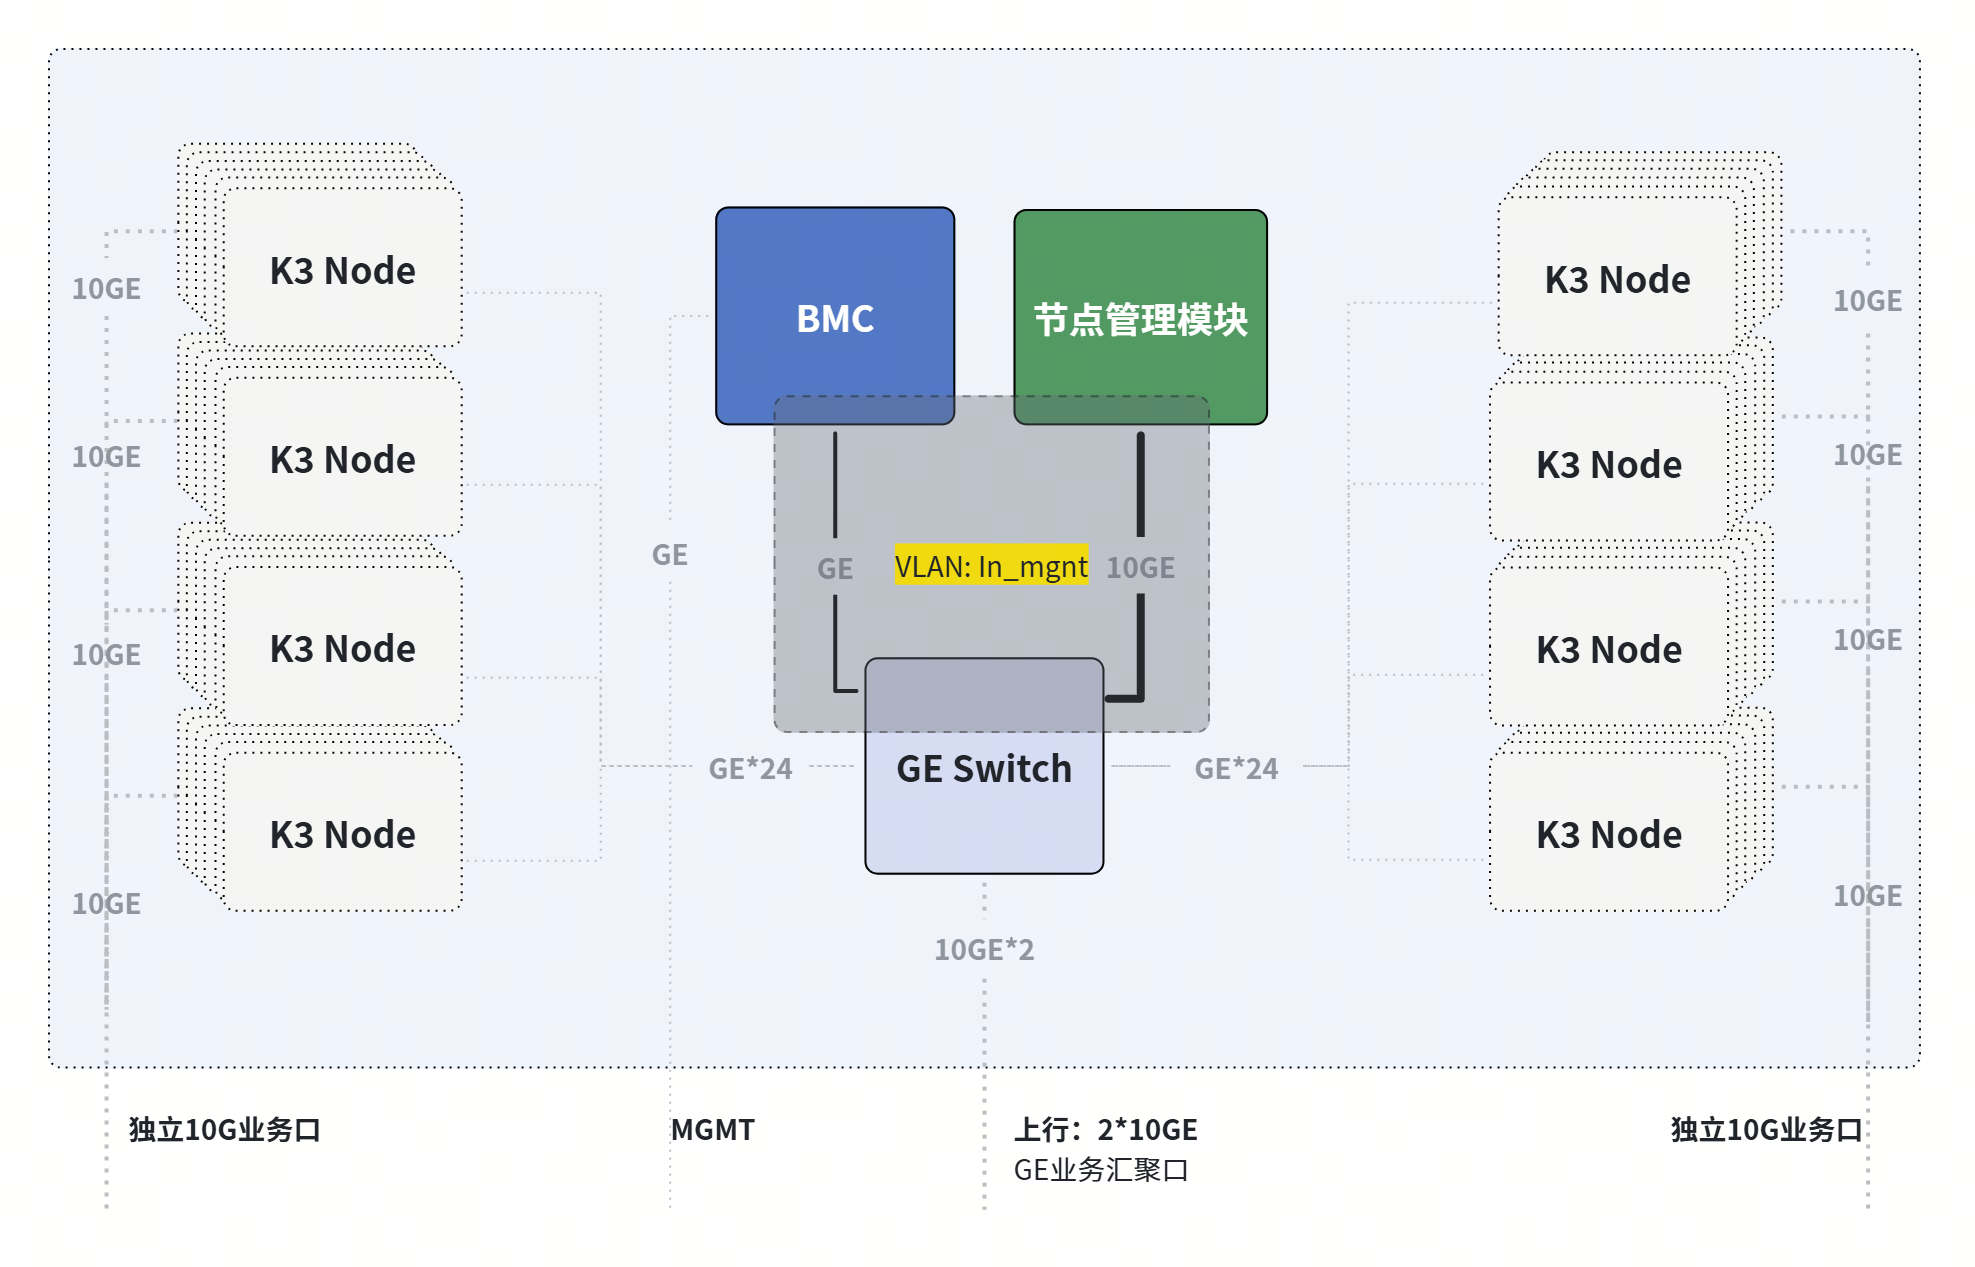
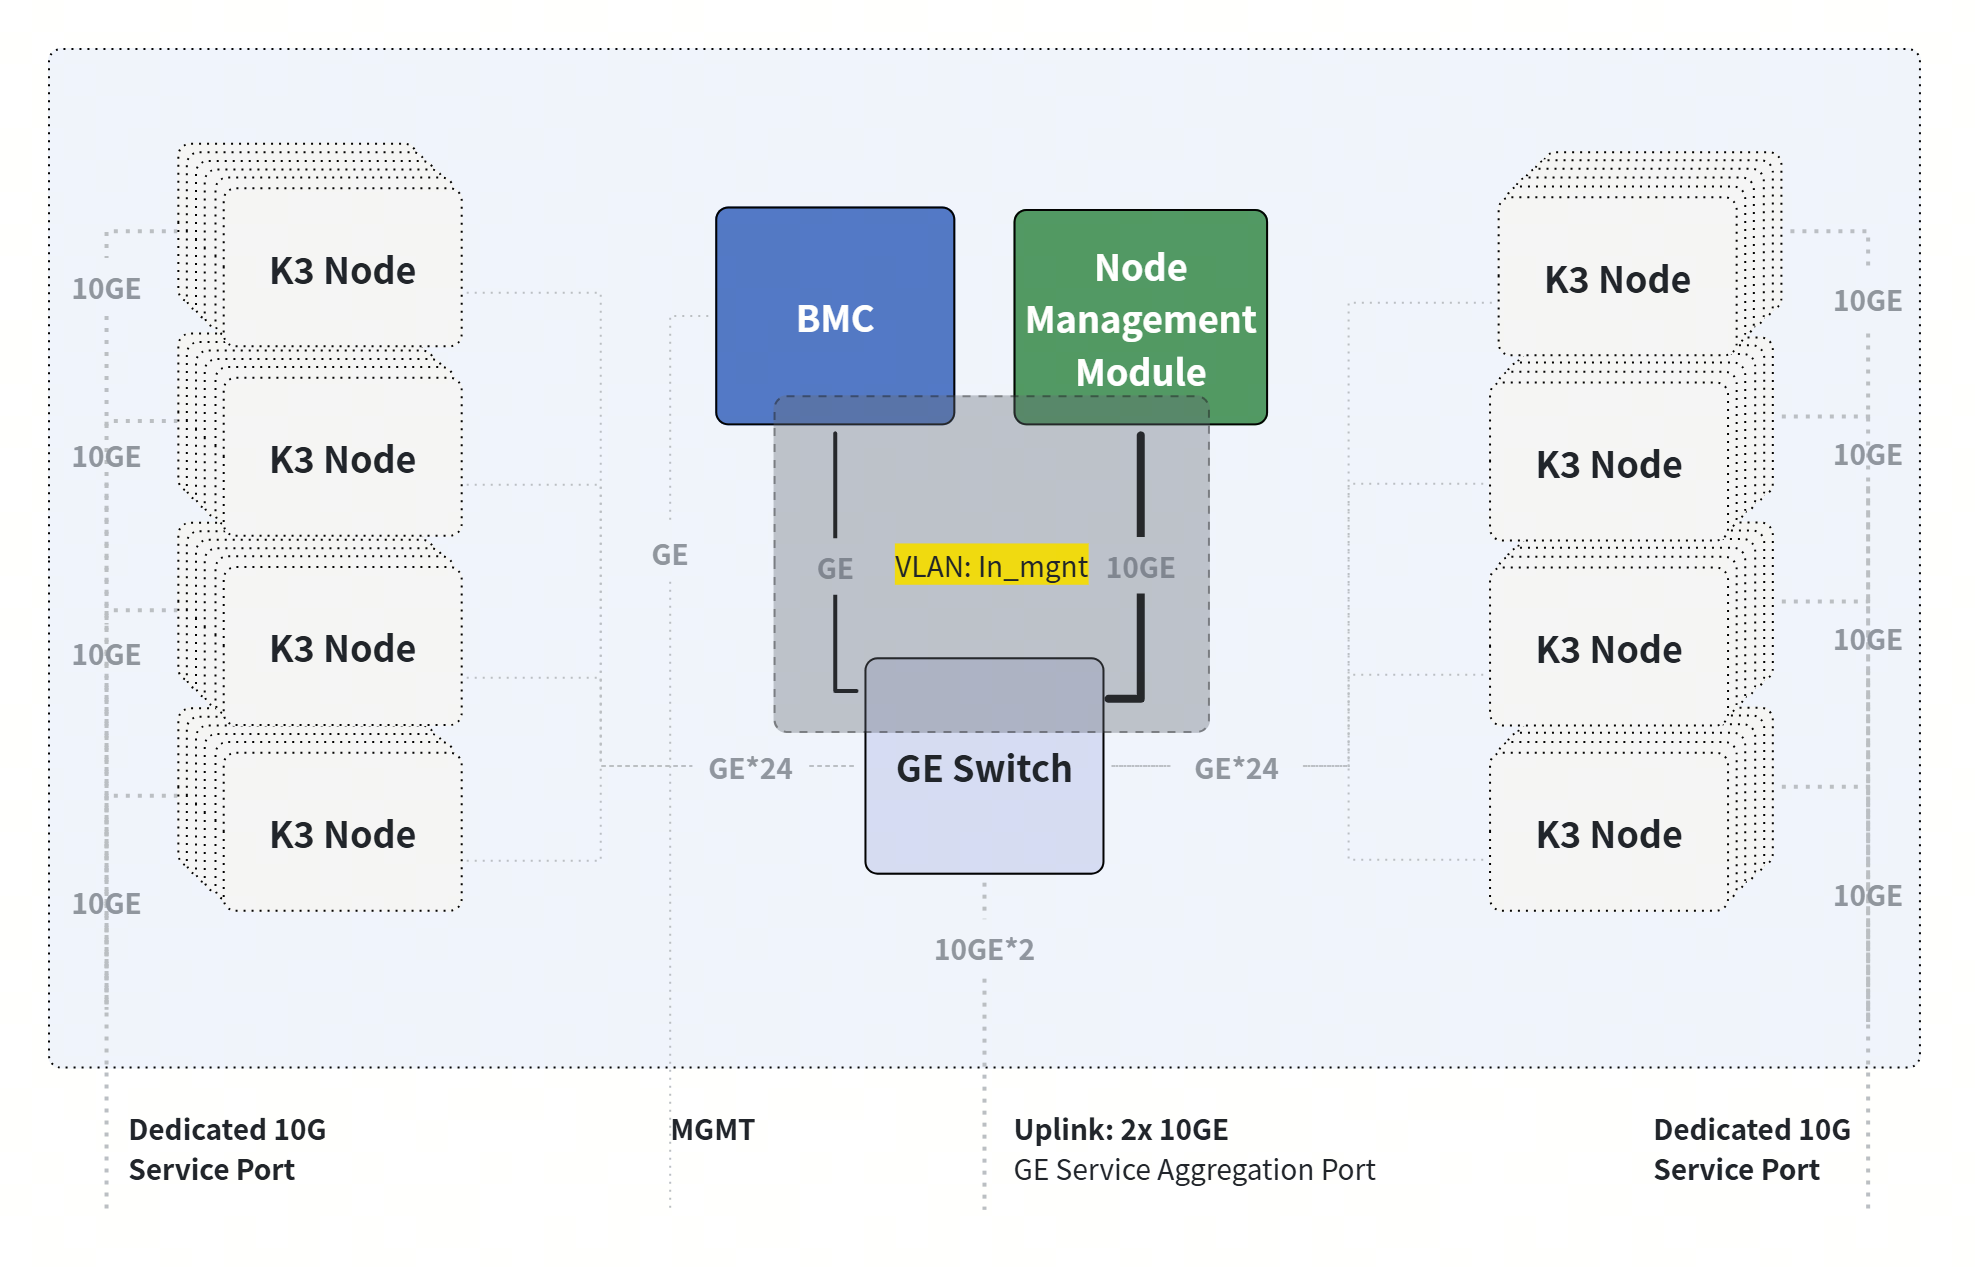
docs: update RV2768 specs and diagrams for both zh and en

diff --git a/zh/k3_rv2768/root_overview.md b/zh/k3_rv2768/root_overview.md
@@ -37,9 +37,9 @@ RVA23针对通用计算领域的应用处理器所制定，要求支持向量（
 | **物理架构** | 物理架构 | 2U 机架式服务器 |
 | | 尺寸 | 87.4 mm × 447.6 mm × 816.8 mm |
 | | 计算模组 | 最多可装载 24 个模组，每一个模组拥有 2 个 K3 计算节点，并可独立维护 |
-| | 计算节点 | 整机最多总计 48 个节点，模组内各节点之间实现高速、低延迟互联 |
+| | 计算节点 | 整机最多总计 48 个节点，各节点之间物理安全隔离，可独立管理维护 |
 | **计算节点** | CPU 计算核 | 每个进迭时空 K3 处理器配备 8 个 X100 核，单核 SPECint2006 > 9.0/GHz，最大主频 2.4 GHz |
-| | 通用 AI 核 | 每个进迭时空 K3 处理器计算节点搭配 8 个 A100 核，提供 60 TOPS 通用 AI 算力 |
+| | 通用 AI 核 | 每个进迭时空 K3 处理器计算节点搭配 8 个 A100 核，提供 60 TOPS @INT4 通用 AI 算力 |
 | | RAM | LPDDR5，8 GB / 16 GB / 32 GB 容量可选，最高 6400 MT/s |
 | | ROM | NVMe SSD，PCIe 3.0 x4，64 GB / 128 GB / 256 GB 容量可选，也可选配 UFS |
 | | 网络 | 1GE 网口接入内部管理网络，10GE 网口支持外部互联 |
@@ -52,10 +52,9 @@ RVA23针对通用计算领域的应用处理器所制定，要求支持向量（
 | **管理系统** | 基板管理 | 支持多节点计算模组单一管理、支持集成交换机管理，前出专用管理 GE 网口，提供全面的故障检测和运维特性 |
 | | 节点管理 | 支持对节点进行硬件电源管理、系统复位、固件配置、串口调试和远程桌面操控 |
 | **软件应用** | 操作系统 | 出厂可选配预装主流 Linux 操作系统 |
-| | 应用服务 | RISC-V 生态云、构建集群应用、AI 集群应用 |
+| | 软件平台 | 集群管理、分布式计算、智能体集群 |
 | **工作条件** | 工作温度 | 5°C～40°C（41°F～104°F），符合 ASHRAE Class A1/A2/A3 |
 | | 工作湿度 | 8%～90% |
-
 
 ## 合作与采购咨询
 

diff --git a/en/k3_rv2768/root_overview.md b/en/k3_rv2768/root_overview.md
@@ -39,9 +39,9 @@ With a multi-node cluster architecture and full hardware virtualization, the ser
 | **Physical** | Form Factor | 2U rackmount |
 | | Dimensions | 87.4 mm × 447.6 mm × 816.8 mm |
 | | Compute Modules | Up to 24 modules, each with 2 K3 nodes, independently serviceable |
-| | Compute Nodes | Up to 48 nodes with high-speed, low-latency interconnect |
+| | Compute Nodes | Up to 48 physically isolated nodes, each independently manageable and maintainable |
 | **Compute Node** | CPU Cores | 8 × X100 cores per K3, SPECint2006 > 9.0/GHz, up to 2.4 GHz |
-| | AI Cores | 8 × A100 cores per node, up to 60 TOPS |
+| | AI Cores | 8 × A100 cores per node, 60 TOPS @INT4 |
 | | RAM | LPDDR5, 8 / 16 / 32 GB options, up to 6400 MT/s |
 | | ROM | NVMe SSD (PCIe 3.0 x4), 64 / 128 / 256 GB, optional UFS |
 | | Networking | 1GE port for internal management network, 10GE port for external connectivity |
@@ -54,7 +54,7 @@ With a multi-node cluster architecture and full hardware virtualization, the ser
 | **Management** | System Management | Unified multi-node module management and integrated switch management, with a dedicated front GE management port for full fault monitoring and operations |
 | | Node Management | Power control, reset, firmware configuration, serial debug, and remote console |
 | **Software** | OS | Optional pre-installed mainstream Linux distributions |
-| | Applications | RISC-V cloud ecosystem, build clusters, and AI cluster workloads |
+| | Software Platform | Cluster management, distributed computing, AI agent clusters |
 | **Operating Conditions** | Temperature | 5°C–40°C (41°F–104°F), ASHRAE A1/A2/A3 compliant |
 | | Humidity | 8%–90% |
 

diff --git a/en/k3_rv2768/rv2768_white_paper.md b/en/k3_rv2768/rv2768_white_paper.md
@@ -307,9 +307,9 @@ Four 6056 fan modules are supported.
 | **Physical** | Form Factor | 2U rackmount |
 | | Dimensions | 87.4 mm × 447.6 mm × 816.8 mm |
 | | Compute Modules | Up to 24 modules, each with 2 K3 nodes, independently serviceable |
-| | Compute Nodes | Up to 48 nodes with high-speed, low-latency interconnect |
+| | Compute Nodes | Up to 48 physically isolated nodes, each independently manageable and maintainable |
 | **Compute Node** | CPU Cores | 8 × X100 cores per K3, SPECint2006 > 9.0/GHz, up to 2.4 GHz |
-| | AI Cores | 8 × A100 cores per node, up to 60 TOPS |
+| | AI Cores | 8 × A100 cores per node, 60 TOPS @INT4 |
 | | RAM | LPDDR5, 8 / 16 / 32 GB options, up to 6400 MT/s |
 | | ROM | NVMe SSD (PCIe 3.0 x4), 64 / 128 / 256 GB, optional UFS |
 | | Networking | 1GE port for internal management network, 10GE port for external connectivity |
@@ -322,7 +322,7 @@ Four 6056 fan modules are supported.
 | **Management** | System Management | Unified multi-node module management and integrated switch management, with a dedicated front GE management port for full fault monitoring and operations |
 | | Node Management | Power control, reset, firmware configuration, serial debug, and remote console |
 | **Software** | OS | Optional pre-installed mainstream Linux distributions |
-| | Applications | RISC-V cloud ecosystem, build clusters, and AI cluster workloads |
+| | Software Platform | Cluster management, distributed computing, AI agent clusters |
 | **Operating Conditions** | Temperature | 5°C–40°C (41°F–104°F), ASHRAE A1/A2/A3 compliant |
 | | Humidity | 8%–90% |
 
